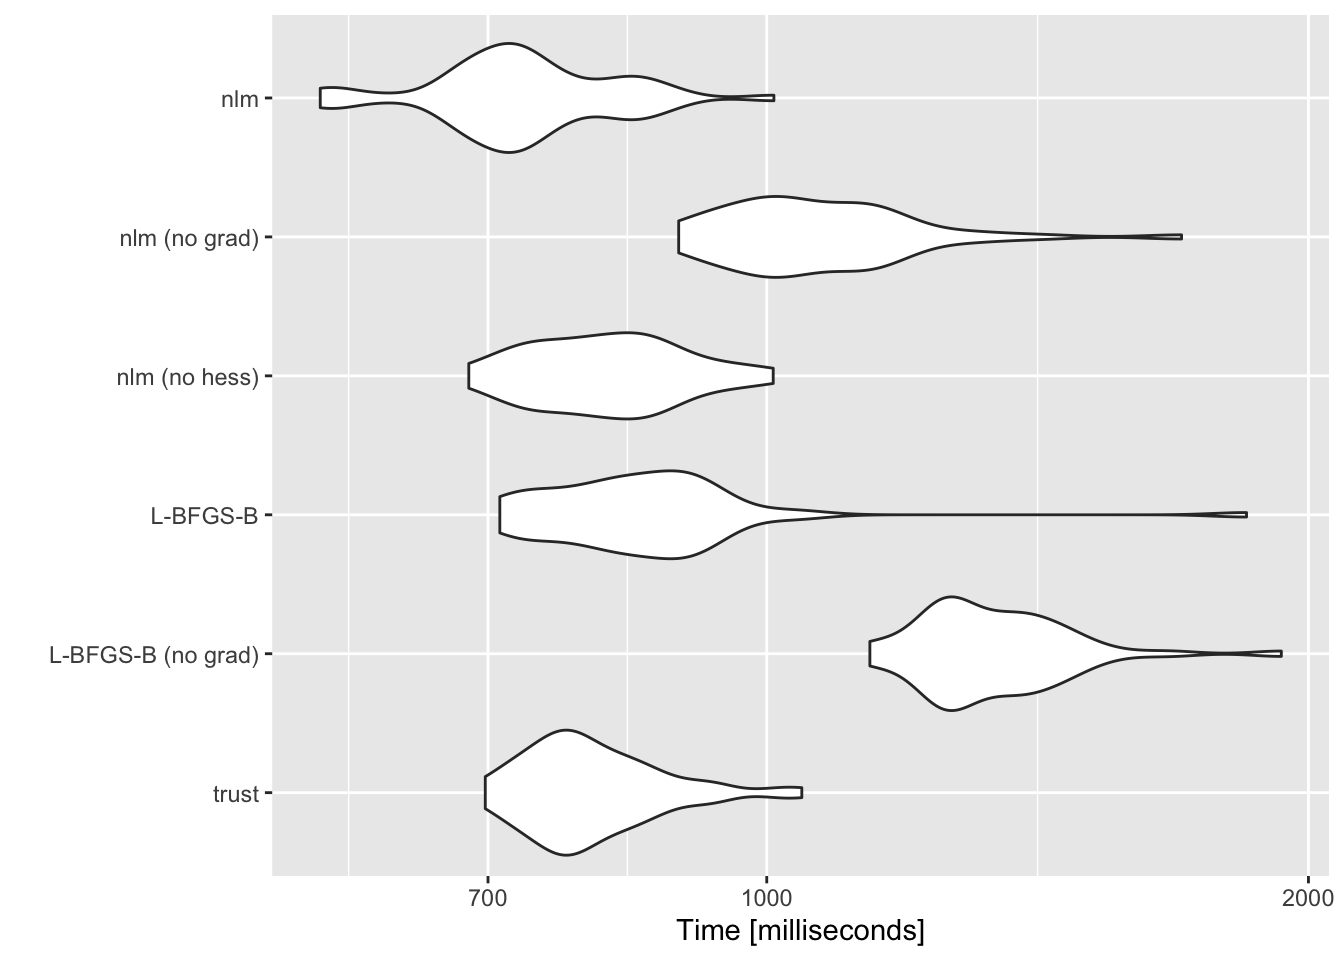
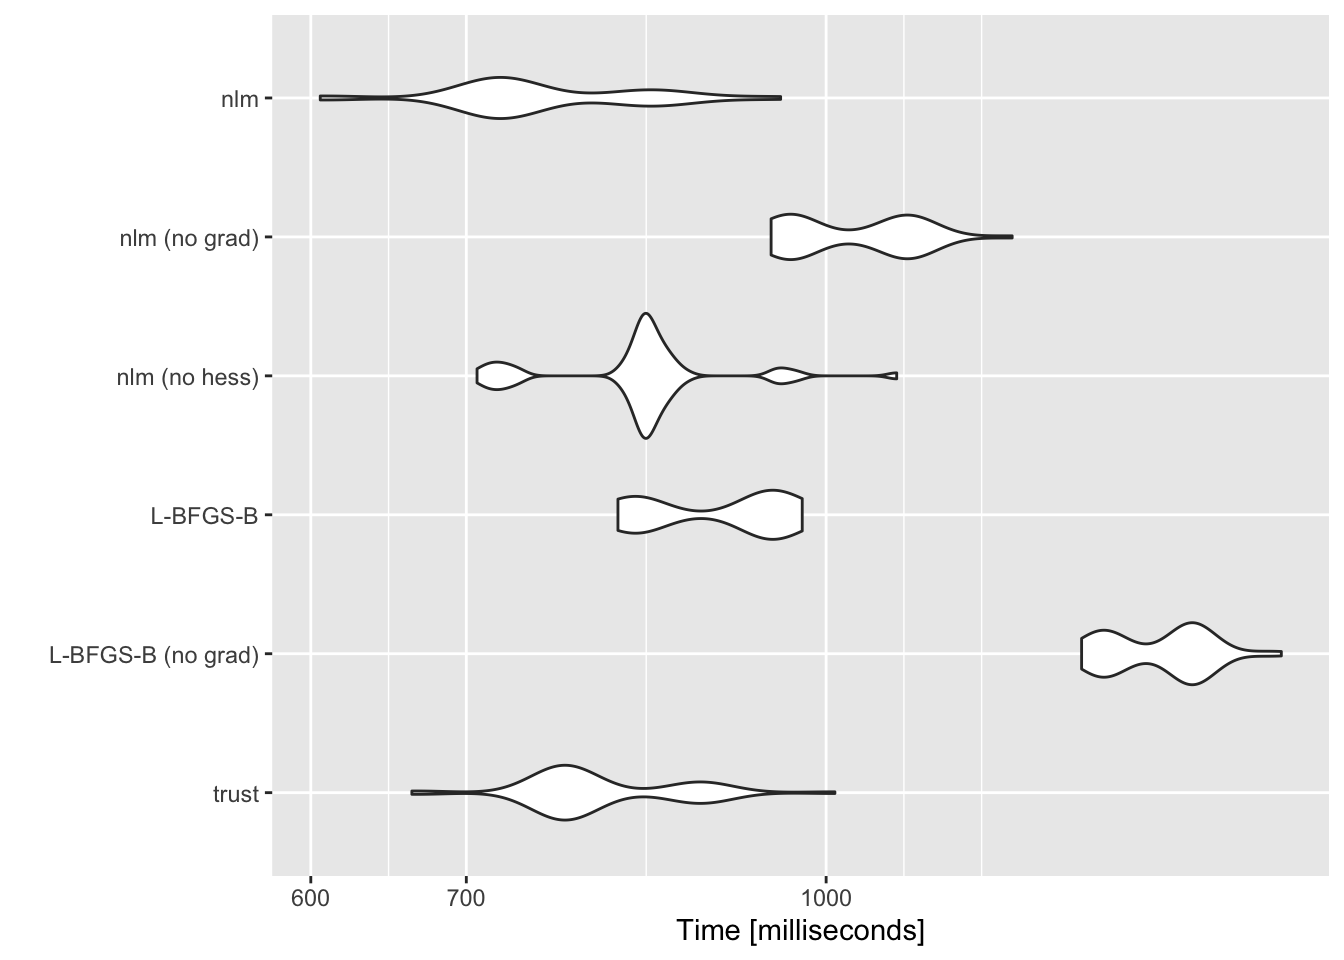
Build site.

diff --git a/docs/optmethods_pl3.html b/docs/optmethods_pl3.html
@@ -13,7 +13,7 @@
 
 <meta name="date" content="2021-01-12" />
 
-<title>Testing point-laplace optimization methods</title>
+<title>Testing point-laplace optimization methods (estimated mode)</title>
 
 <script src="site_libs/jquery-1.11.3/jquery.min.js"></script>
 <meta name="viewport" content="width=device-width, initial-scale=1" />
@@ -337,7 +337,7 @@ div.section {
 
 
 
-<h1 class="title toc-ignore">Testing point-laplace optimization methods</h1>
+<h1 class="title toc-ignore">Testing point-laplace optimization methods (estimated mode)</h1>
 <h4 class="author">Jason Willwerscheid</h4>
 <h4 class="date">01/12/2021</h4>
 
@@ -474,101 +474,25 @@ Note that any generated files, e.g. HTML, png, CSS, etc., are not included in t
 <hr>
 </div>
 <div id="versions" class="tab-pane fade">
-
 <p>
-These are the previous versions of the R Markdown and HTML files. If you’ve configured a remote Git repository (see <code>?wflow_git_remote</code>), click on the hyperlinks in the table below to view them.
+There are no past versions. Publish this analysis with <code>wflow_publish()</code> to start tracking its development.
 </p>
-<div class="table-responsive">
-<table class="table table-condensed table-hover">
-<thead>
-<tr>
-<th>
-File
-</th>
-<th>
-Version
-</th>
-<th>
-Author
-</th>
-<th>
-Date
-</th>
-<th>
-Message
-</th>
-</tr>
-</thead>
-<tbody>
-<tr>
-<td>
-Rmd
-</td>
-<td>
-<a href="https://github.com/willwerscheid/ebnm-paper/blob/39fece5808142aebc190ee9b2a70da421600a7e9/analysis/optmethods_pl.Rmd" target="_blank">39fece5</a>
-</td>
-<td>
-Jason Willwerscheid
-</td>
-<td>
-2021-01-12
-</td>
-<td>
-wflow_publish(c(“analysis/optmethods_pl.Rmd”, “analysis/optmethods_pl3.Rmd”))
-</td>
-</tr>
-<tr>
-<td>
-html
-</td>
-<td>
-<a href="https://rawcdn.githack.com/willwerscheid/ebnm-paper/25b5d6d0e28be0adbe4b9961d4dfae0d8a49b9bd/docs/optmethods_pl.html" target="_blank">25b5d6d</a>
-</td>
-<td>
-Jason Willwerscheid
-</td>
-<td>
-2021-01-12
-</td>
-<td>
-Build site.
-</td>
-</tr>
-<tr>
-<td>
-Rmd
-</td>
-<td>
-<a href="https://github.com/willwerscheid/ebnm-paper/blob/63f1ff81fd3a5527d7e384f026fb6166209a2da8/analysis/optmethods_pl.Rmd" target="_blank">63f1ff8</a>
-</td>
-<td>
-Jason Willwerscheid
-</td>
-<td>
-2021-01-12
-</td>
-<td>
-wflow_publish(“analysis/optmethods_pl.Rmd”)
-</td>
-</tr>
-</tbody>
-</table>
-</div>
 <hr>
 </div>
 </div>
 </div>
-<p>I compare the performance of different optimization methods for solving the EBNM problem with point-Laplace priors. The “true” prior I’ve used to generate the data is <span class="math display">\[ \theta_i \sim 0.9 \delta_0 + 0.1 \text{Laplace}(0, 5) \]</span> I set all standard errors equal to 1. This makes function evaluations cheaper, which benefits <code>nlm</code> and <code>optim</code> since (per the <code>trust</code> documentation) <code>trust</code> “makes the best possible use of each function, gradient, and Hessian evaluation.” Thus, while the corresponding <a href="optmethods_pn.html">study</a> for point-normal priors showed that <code>trust</code> was faster than <code>nlm</code> for large <span class="math inline">\(n\)</span>, here I find that <code>nlm</code> is at least as fast.</p>
+<p>I <a href="optmethods_pl.html">again</a> compare optimization methods for solving the EBNM problem with point-Laplace priors but now I estimate the mode as well as estimating <span class="math inline">\(\pi_0\)</span> and <span class="math inline">\(\sigma^2\)</span>. The “true” prior I use is: <span class="math display">\[ \theta_i \sim 0.7 \delta_\mu + 0.3\text{Laplace}(\mu, 3) \]</span> I set <span class="math inline">\(\mu = 1\)</span> and I generate standard errors from an exponential distribution with mean 1 (recall that using different standard errors <span class="math inline">\(s_i\)</span> for each observation <span class="math inline">\(x_i\)</span> should benefit <code>trust</code>).</p>
 <pre class="r"><code>library(microbenchmark)
 library(ebnm)
 library(ggplot2)
 
 test_n &lt;- function(n, mb_times = 100L, seed = 666) {
   set.seed(seed)
-  # true g is 0.9 delta_0 + 0.1 Laplace(0, 5)
-  theta &lt;- rexp(n, rate = 1 / 5) * sample(c(-1, 1), n, replace = TRUE)
-  theta[rbinom(n, size = 1, prob = 0.9) == 1] &lt;- 0
-  s &lt;- 1
+  # true g is 0.7 delta_mu + 0.3 Laplace(mu, 3)
+  mu &lt;- 1
+  theta &lt;- mu + rexp(n, rate = 1 / 3) * sample(c(-1, 1), n, replace = TRUE)
+  theta[rbinom(n, size = 1, prob = 0.7) == 1] &lt;- mu
+  s &lt;- sqrt(rexp(n))
   x &lt;- theta + rnorm(n, sd = s)
 
   test_res &lt;- microbenchmark(
@@ -601,147 +525,35 @@ test_n &lt;- function(n, mb_times = 100L, seed = 666) {
 <pre class="r"><code>res1000 &lt;- test_n(1000)
 res1000$llik_res - max(res1000$llik_res)</code></pre>
 <pre><code>#&gt;         trust      L-BFGS-B           nlm 
-#&gt;  0.000000e+00 -2.728484e-12 -4.547474e-13</code></pre>
+#&gt;  0.000000e+00 -4.020180e-04 -1.643033e-06</code></pre>
 <p>Timing results:</p>
 <pre class="r"><code>autoplot(res1000$mb_res)</code></pre>
 <pre><code>#&gt; Coordinate system already present. Adding new coordinate system, which will replace the existing one.</code></pre>
-<p><img src="figure/optmethods_pl.Rmd/n1000t-1.png" width="672" style="display: block; margin: auto;" /></p>
-<p>
-<button type="button" class="btn btn-default btn-xs btn-workflowr btn-workflowr-fig" data-toggle="collapse" data-target="#fig-n1000t-1">
-Past versions of n1000t-1.png
-</button>
-</p>
-<div id="fig-n1000t-1" class="collapse">
-<div class="table-responsive">
-<table class="table table-condensed table-hover">
-<thead>
-<tr>
-<th>
-Version
-</th>
-<th>
-Author
-</th>
-<th>
-Date
-</th>
-</tr>
-</thead>
-<tbody>
-<tr>
-<td>
-<a href="https://github.com/willwerscheid/ebnm-paper/blob/25b5d6d0e28be0adbe4b9961d4dfae0d8a49b9bd/docs/figure/optmethods_pl.Rmd/n1000t-1.png" target="_blank">25b5d6d</a>
-</td>
-<td>
-Jason Willwerscheid
-</td>
-<td>
-2021-01-12
-</td>
-</tr>
-</tbody>
-</table>
-</div>
-</div>
+<p><img src="figure/optmethods_pl3.Rmd/n1000t-1.png" width="672" style="display: block; margin: auto;" /></p>
 </div>
 <div id="n-10000" class="section level2">
 <h2>n = 10000</h2>
 <p>Difference from maximum log likelihood among all methods:</p>
-<pre class="r"><code>res10000 &lt;- test_n(10000)
+<pre class="r"><code>res10000 &lt;- test_n(10000, mb_times = 50L)
 res10000$llik_res - max(res10000$llik_res)</code></pre>
 <pre><code>#&gt;         trust      L-BFGS-B           nlm 
-#&gt;  0.000000e+00 -6.002665e-10  0.000000e+00</code></pre>
+#&gt;  0.000000e+00 -1.297601e-03 -1.647614e-05</code></pre>
 <p>Timing results:</p>
 <pre class="r"><code>autoplot(res10000$mb_res)</code></pre>
 <pre><code>#&gt; Coordinate system already present. Adding new coordinate system, which will replace the existing one.</code></pre>
-<p><img src="figure/optmethods_pl.Rmd/n10000t-1.png" width="672" style="display: block; margin: auto;" /></p>
-<p>
-<button type="button" class="btn btn-default btn-xs btn-workflowr btn-workflowr-fig" data-toggle="collapse" data-target="#fig-n10000t-1">
-Past versions of n10000t-1.png
-</button>
-</p>
-<div id="fig-n10000t-1" class="collapse">
-<div class="table-responsive">
-<table class="table table-condensed table-hover">
-<thead>
-<tr>
-<th>
-Version
-</th>
-<th>
-Author
-</th>
-<th>
-Date
-</th>
-</tr>
-</thead>
-<tbody>
-<tr>
-<td>
-<a href="https://github.com/willwerscheid/ebnm-paper/blob/25b5d6d0e28be0adbe4b9961d4dfae0d8a49b9bd/docs/figure/optmethods_pl.Rmd/n10000t-1.png" target="_blank">25b5d6d</a>
-</td>
-<td>
-Jason Willwerscheid
-</td>
-<td>
-2021-01-12
-</td>
-</tr>
-</tbody>
-</table>
-</div>
-</div>
+<p><img src="figure/optmethods_pl3.Rmd/n10000t-1.png" width="672" style="display: block; margin: auto;" /></p>
 </div>
 <div id="n-100000" class="section level2">
 <h2>n = 100000</h2>
 <p>Difference from maximum log likelihood among all methods:</p>
-<pre class="r"><code>res100000 &lt;- test_n(100000, mb_times = 50L)
+<pre class="r"><code>res100000 &lt;- test_n(100000, mb_times = 20L)
 res100000$llik_res - max(res100000$llik_res)</code></pre>
 <pre><code>#&gt;         trust      L-BFGS-B           nlm 
-#&gt; -2.910383e-11 -5.160109e-08  0.000000e+00</code></pre>
+#&gt;  0.0000000000 -0.1192067698 -0.0001639297</code></pre>
 <p>Timing results:</p>
 <pre class="r"><code>autoplot(res100000$mb_res)</code></pre>
 <pre><code>#&gt; Coordinate system already present. Adding new coordinate system, which will replace the existing one.</code></pre>
-<p><img src="figure/optmethods_pl.Rmd/n100000t-1.png" width="672" style="display: block; margin: auto;" /></p>
-<p>
-<button type="button" class="btn btn-default btn-xs btn-workflowr btn-workflowr-fig" data-toggle="collapse" data-target="#fig-n100000t-1">
-Past versions of n100000t-1.png
-</button>
-</p>
-<div id="fig-n100000t-1" class="collapse">
-<div class="table-responsive">
-<table class="table table-condensed table-hover">
-<thead>
-<tr>
-<th>
-Version
-</th>
-<th>
-Author
-</th>
-<th>
-Date
-</th>
-</tr>
-</thead>
-<tbody>
-<tr>
-<td>
-<a href="https://github.com/willwerscheid/ebnm-paper/blob/25b5d6d0e28be0adbe4b9961d4dfae0d8a49b9bd/docs/figure/optmethods_pl.Rmd/n100000t-1.png" target="_blank">25b5d6d</a>
-</td>
-<td>
-Jason Willwerscheid
-</td>
-<td>
-2021-01-12
-</td>
-</tr>
-</tbody>
-</table>
-</div>
-</div>
-<br> <br>
+<img src="figure/optmethods_pl3.Rmd/n100000t-1.png" width="672" style="display: block; margin: auto;" /> <br> <br>
 <p>
 <button type="button" class="btn btn-default btn-workflowr btn-workflowr-sessioninfo" data-toggle="collapse" data-target="#workflowr-sessioninfo" style="display: block;">
 <span class="glyphicon glyphicon-wrench" aria-hidden="true"></span> Session information
@@ -774,9 +586,9 @@ Jason Willwerscheid
 #&gt; [21] stringr_1.4.0     knitr_1.22        generics_0.0.2    vctrs_0.3.6       fs_1.2.7         
 #&gt; [26] tidyselect_1.1.0  trust_0.1-8       rprojroot_1.3-2   grid_3.5.3        glue_1.4.2       
 #&gt; [31] R6_2.4.0          rmarkdown_1.12    mixsqp_0.3-40     irlba_2.3.3       purrr_0.3.4      
-#&gt; [36] ashr_2.2-51       magrittr_1.5      whisker_0.3-2     backports_1.1.3   scales_1.0.0     
-#&gt; [41] htmltools_0.3.6   ellipsis_0.3.0    colorspace_1.4-1  stringi_1.4.3     munsell_0.5.0    
-#&gt; [46] truncnorm_1.0-8   SQUAREM_2017.10-1 crayon_1.3.4</code></pre>
+#&gt; [36] ashr_2.2-51       magrittr_1.5      backports_1.1.3   scales_1.0.0      htmltools_0.3.6  
+#&gt; [41] ellipsis_0.3.0    colorspace_1.4-1  stringi_1.4.3     munsell_0.5.0     truncnorm_1.0-8  
+#&gt; [46] SQUAREM_2017.10-1 crayon_1.3.4</code></pre>
 </div>
 </div>
 
